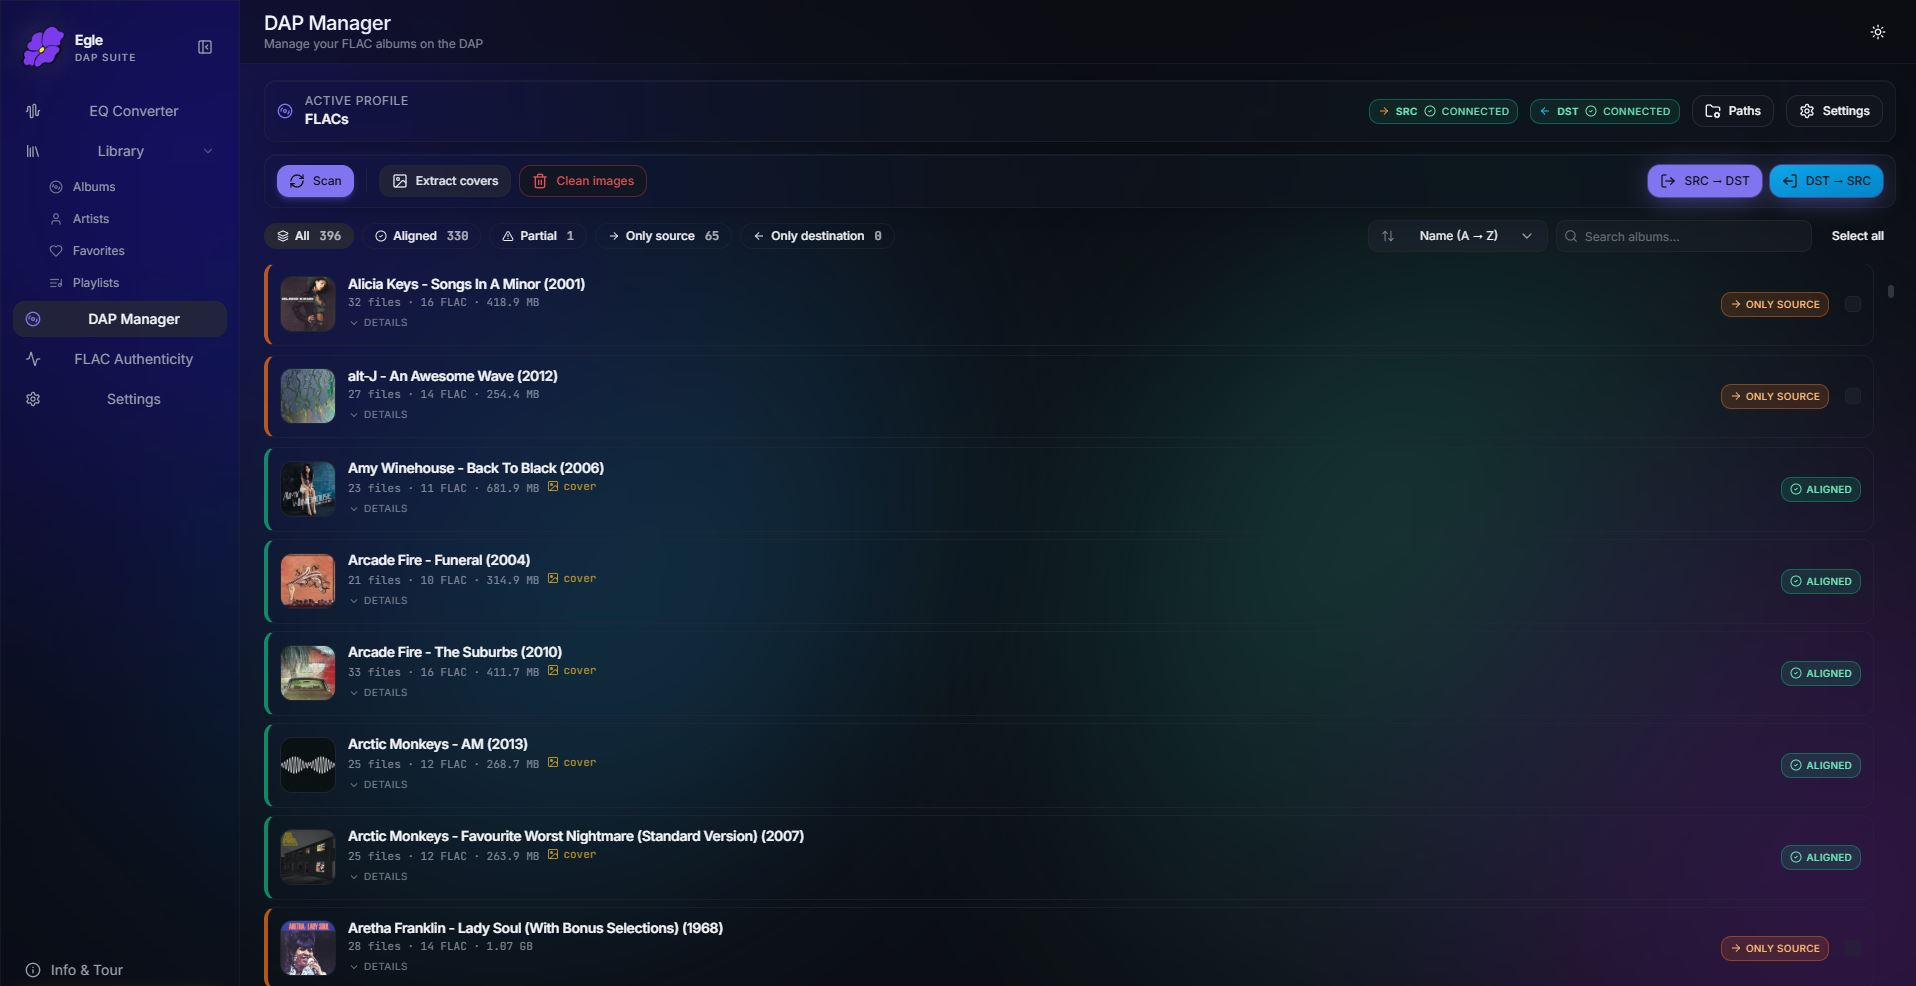
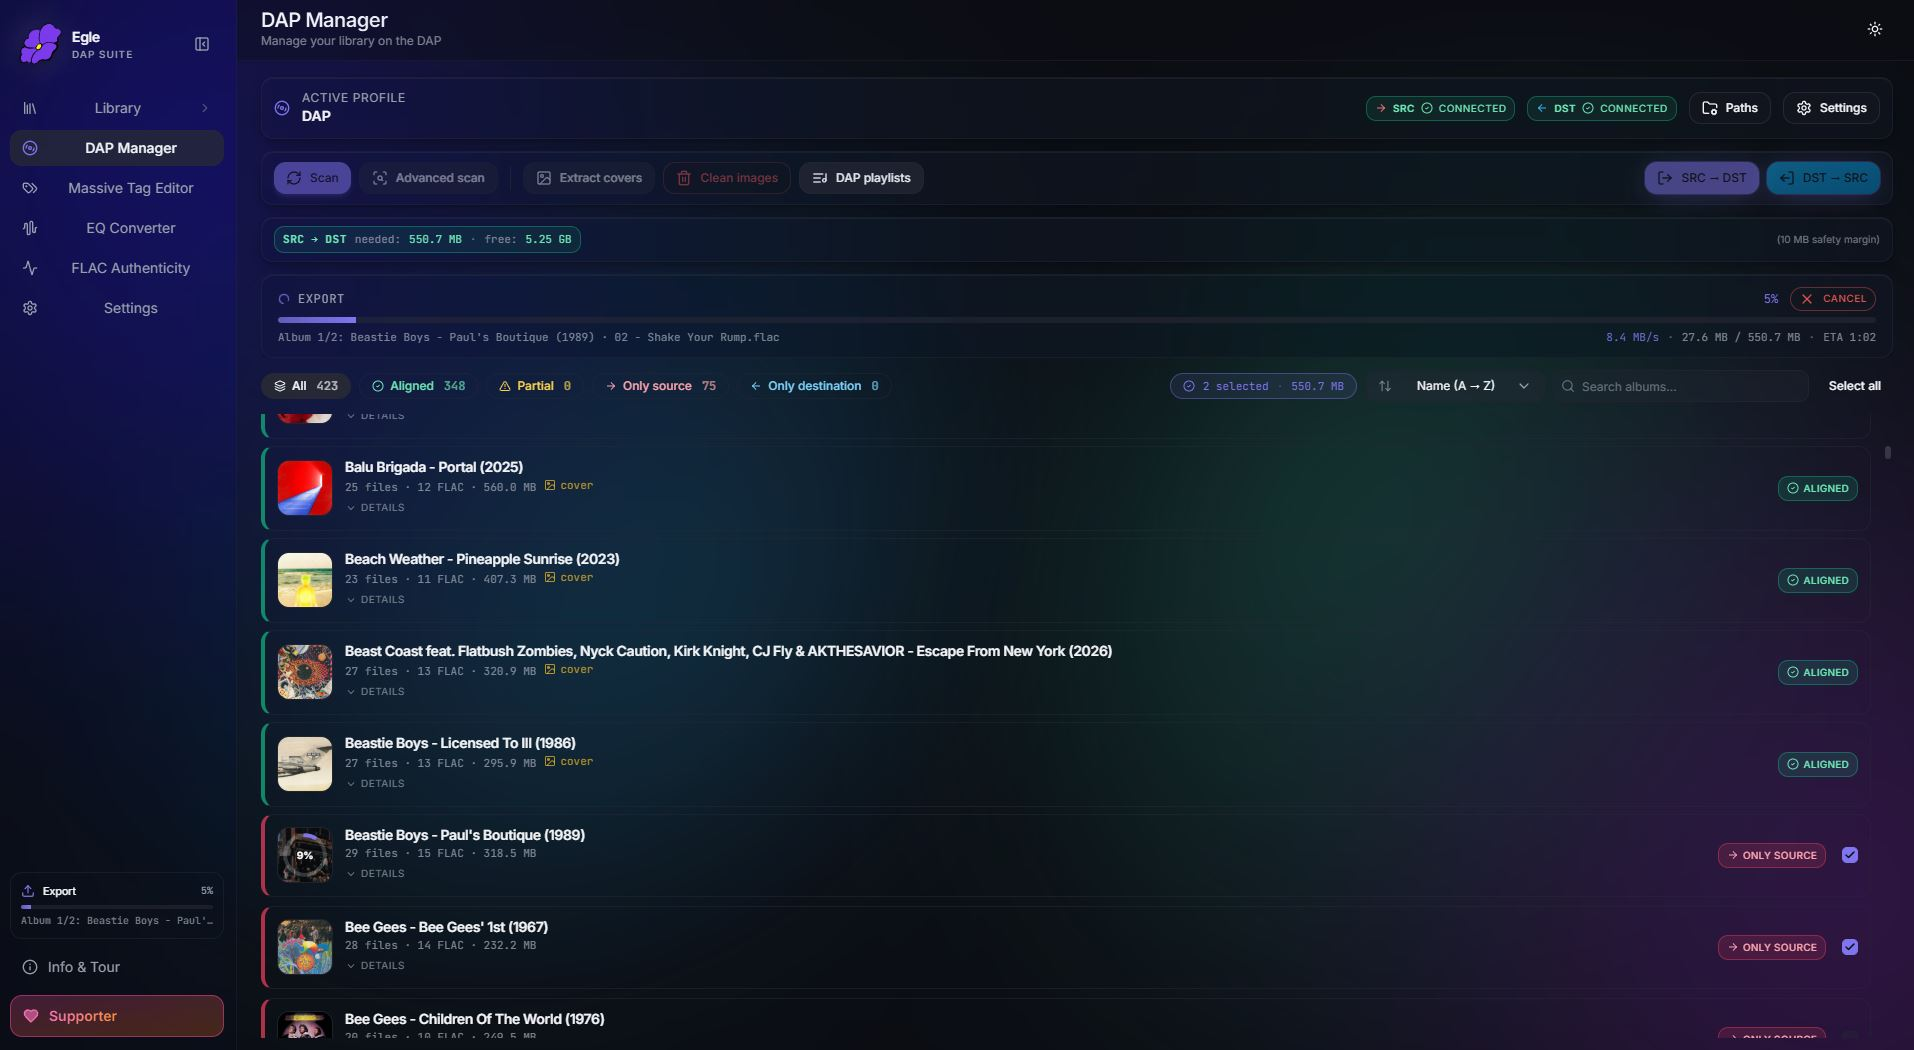
Update landing for v2.0.0: Smart Playlists, advanced DAP scan, any-layout sync, refreshed 2.0 screenshots

diff --git a/README.md b/README.md
@@ -7,7 +7,7 @@
 **All-in-one music suite for Windows: batch tag editor, bit-perfect HiFi player, FLAC authenticity checker, cover-art manager and an AutoEQ to Rockbox converter, all in a single 15 MB native app.**
 
 [![Download](https://img.shields.io/badge/⬇%20Download-Get%20the%20app-7C3AED?style=for-the-badge&logo=windows&logoColor=white)](https://github.com/EgleAudioSuite/egle/releases/latest)
-[![Latest Release](https://img.shields.io/badge/Latest-v1.1.0-0EA5E9?style=for-the-badge)](https://github.com/EgleAudioSuite/egle/releases/latest)
+[![Latest Release](https://img.shields.io/badge/Latest-v2.0.0-0EA5E9?style=for-the-badge)](https://github.com/EgleAudioSuite/egle/releases/latest)
 [![Platform](https://img.shields.io/badge/Windows-10%20%7C%2011-0078D6?style=for-the-badge&logo=windows&logoColor=white)](#system-requirements)
 [![Support on Patreon](https://img.shields.io/badge/Support-Patreon-FF424D?style=for-the-badge&logo=patreon&logoColor=white)](https://www.patreon.com/cw/egleMusic)
 
@@ -23,9 +23,9 @@
 
 - a **mass tag editor** that can auto-fix MP3 and FLAC tags, remove the "explicit" tag for you, tidy up genres and artist separators, renumber tracks, calculate ReplayGain for even volume and clear junk metadata across thousands of files at once;
 - a **bit-perfect HiFi music player** with ReplayGain, gapless album playback and automatic sample-rate switching;
-- a **music library manager** with albums, artists, genres, playlists, favorites, listening history, a duplicate finder and a 3D cover-flow view;
+- a **music library manager** with albums, artists, genres, playlists, favorites, listening history, a duplicate finder, smart playlists from plain-language queries and a 3D cover-flow view;
 - a **FLAC authenticity checker** (real-time spectrogram) to spot fake or transcoded FLACs;
-- a **cover-art / album-art batch manager** to embed, resize and clean artwork across formats;
+- a **cover-art / DAP manager** to embed, resize and clean artwork across formats, sync albums to a Rockbox player at any folder depth, and compare tags and quality between PC and device;
 - an **AutoEQ to Rockbox EQ converter** for your DAP.
 
 It's built with Rust and Tauri, so it's a single light `.exe` (around 15 MB). No Electron bloat, no background services, no telemetry.
@@ -42,13 +42,17 @@ It's built with Rust and Tauri, so it's a single light `.exe` (around 15 MB). No
 |:---:|:---:|
 | ![Music library manager for Windows](assets/screenshot-library.jpg) | ![HiFi bit-perfect now playing view with lyrics](assets/screenshot-nowplaying.jpg) |
 
-| Picture Flow (3D cover flow) | Massive Tag Editor: easy tool to organize your library |
+| Smart Playlists (plain-language, offline) | DAP Manager (iPod / Rockbox / MP3 player sync) |
 |:---:|:---:|
-| ![3D cover flow view](assets/screenshot-pictureflow.jpg) | ![Mass tag editor to organize your music library](assets/screenshot-masstag.jpg) |
+| ![Smart playlist generator from a plain-language query, offline](assets/screenshot-smartplaylist.jpg) | ![DAP manager syncing FLAC albums to an iPod or MP3 player](assets/screenshot-dap.jpg) |
 
-| DAP Manager (iPod / Rockbox / MP3 player sync) | AutoEQ to Rockbox EQ Converter |
+| Massive Tag Editor: easy tool to organize your library | Picture Flow (3D cover flow) |
 |:---:|:---:|
-| ![DAP manager syncing FLAC albums to an iPod or MP3 player](assets/screenshot-dap.jpg) | ![AutoEQ to Rockbox parametric EQ converter with response graph](assets/screenshot-eq.jpg) |
+| ![Mass tag editor to organize your music library](assets/screenshot-masstag.jpg) | ![3D cover flow view](assets/screenshot-pictureflow.jpg) |
+
+| FLAC Authenticity Checker | AutoEQ to Rockbox EQ Converter |
+|:---:|:---:|
+| ![FLAC authenticity checker with real-time spectrogram](assets/screenshot-flac.jpg) | ![AutoEQ to Rockbox parametric EQ converter with response graph](assets/screenshot-eq.jpg) |
 
 </div>
 
@@ -71,7 +75,7 @@ This is the tool most people open Egle for. You build a list of operations and r
 
 ### 🔊 Bit-Perfect HiFi Player
 
-Lossless (FLAC / ALAC / WAV / AIFF) and lossy (MP3 / AAC / Vorbis / Opus) playback, powered by Symphonia and CPAL. Automatic per-track sample-rate switching, gapless album playback, ReplayGain (off / track / album), Windows media-key and SMTC integration, and a real Bit-Perfect badge that only lights up when there's no resampling in the chain.
+Lossless (FLAC / ALAC / WAV / AIFF) and lossy (MP3 / AAC / Vorbis / Opus) playback, powered by Symphonia and CPAL. Automatic per-track sample-rate switching, gapless album playback and optional crossfade, ReplayGain (off / track / album), Windows media-key and SMTC integration, and a real Bit-Perfect badge that only lights up when there's no resampling in the chain. A full-screen Now Playing view shows the cover, controls and large lyrics that scroll line by line, read from the tags or from an external `.lrc` file next to the song.
 
 ### 🎼 Music Library Manager
 
@@ -87,6 +91,12 @@ Edit tags and lyrics (including synced LRC) on any supported format through one 
 
 Create and manage playlists, import and export them as M3U / M3U8 / PLS, set a custom cover image, and get an automatic 2x2 cover mosaic when you don't.
 
+### 🧠 Smart Playlists
+
+Type what you want in plain language, like `90s r&b`, `best of Radiohead` or `most played`, and Egle builds the playlist for you. It runs fully offline, no account and no cloud: it reads your library, your favorites and your listening history right on your machine. Save the result as a normal playlist in your Library, or send it straight to a Rockbox DAP as an `.m3u8`.
+
+It also transfers playlists between your PC and your DAP. Egle matches the same songs on both sides even when the file paths are different, writes the playlist on the device, and can copy over the songs that are missing. A `PC | DAP` switch on the Playlists page lets you list, open, create, rename and delete the playlists already on your connected player. Saving and writing to a DAP are Supporter features.
+
 ### 📈 FLAC Authenticity Checker
 
 A real-time spectrogram (FFT) to spot fake or up-transcoded FLAC files at a glance.
@@ -97,7 +107,9 @@ Turn AutoEQ headphone profiles into native Rockbox `.cfg` parametric-EQ files, w
 
 ### 💿 Cover-Art / DAP Manager
 
-Scan albums and embed, resize, extract or clean cover art across FLAC, MP3, M4A, OGG, WAV and AIFF. Handy when you're getting a Rockbox DAP ready.
+Scan albums and embed, resize, extract or clean cover art across FLAC, MP3, M4A, OGG, WAV and AIFF. It reads any folder layout (Auto mode finds your albums at any depth, so Artist / Album collections from MusicBee, iTunes, foobar2000 or a NAS show up without any setup) and mirrors that same structure onto your DAP when it copies.
+
+There is also an advanced scan: for the files you have on both your PC and your DAP, it compares the tags and the audio quality, shows you exactly what differs (quality, tags or just modified), and re-syncs the ones you pick in either direction, with live speed and ETA. Handy when you're getting a Rockbox DAP ready or keeping it in sync.
 
 ### Plus
 
@@ -112,6 +124,7 @@ A lot of people land on Egle coming from another music app, so here is where it 
 - **From Mp3tag or TagScanner:** the same batch tag editing you already know, plus a live preview of every change, an undo history and ready-made cleanup recipes. Egle does not stop at tags though. It also plays your music, manages your cover art and syncs your library to a DAP, all in the same window.
 - **From MusicBee or MediaMonkey:** Egle is far lighter (one 15 MB app, installing is optional) and nicer to look at, and it still covers the full job: library, tagging, bit-perfect playback and DAP sync, without the clutter.
 - **From foobar2000:** the bit-perfect playback you expect, but with a real bulk tag editor, a cover-art manager and a FLAC authenticity checker already built in, wrapped in a modern interface and with no extra components to track down.
+- **Coming from a Rockbox or iPod setup:** Egle scans your library at any folder depth, mirrors it onto the player, syncs the cover art, builds smart playlists straight onto the device, and can compare tags and audio quality between PC and DAP to keep both sides in sync. The AutoEQ to Rockbox EQ converter lives in the same app.
 
 One app instead of five, easy on the eyes, and free to download and use. Windows only for now.
 
